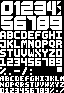
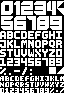
v4.0.0 Support Emery platform

Changed region(s): [[0.75, 0.7097, 1.0, 0.7957], [0.875, 0.0, 1.0, 0.172]]

diff --git a/src/pkjs/index.js b/src/pkjs/index.js
@@ -43,8 +43,14 @@ new Clay([
         "defaultValue": "Bottom text"
       },
       {
+	"capabilities": ["NOT_PLATFORM_EMERY"],
         "type": "text",
         "defaultValue": "Fits up to 17 characters."
+      },
+      {
+	"capabilities": ["PLATFORM_EMERY"],
+        "type": "text",
+        "defaultValue": "Fits up to 24 characters."
       },
       {
         "id": "bottom-select",
@@ -83,8 +89,14 @@ new Clay([
         "defaultValue": "Side text"
       },
       {
+	"capabilities": ["NOT_PLATFORM_EMERY"],
         "type": "text",
         "defaultValue": "Fits up to 20 characters."
+      },
+      {
+	"capabilities": ["PLATFORM_EMERY"],
+        "type": "text",
+        "defaultValue": "Fits up to 29 characters."
       },
       {
         "id": "side-select",

diff --git a/src/c/brutal.c b/src/c/brutal.c
@@ -1,12 +1,37 @@
-/* TODO(irek): Support Emery platform display dimensions. */
-
 #include <pebble.h>
 
-#define CONFKEY 1
-#define BMPW (64/8)	// Bitmaps width in bytes
+#ifdef PBL_PLATFORM_EMERY
+	#define PBL_IF_EMERY_ELSE(if_true, if_false) (if_true)
+#else
+	#define PBL_IF_EMERY_ELSE(if_true, if_false) (if_false)
+#endif
 
-#define GET_BIT(buf, x, y) (((buf)[BMPW*(y) + (x)/8]) &  (0x80 >> (x)%8))
-#define SET_BIT(buf, x, y) (((buf)[BMPW*(y) + (x)/8]) |= (0x80 >> (x)%8))
+#define CONFKEY 1
+#define WIDTH PBL_DISPLAY_WIDTH
+#define HEIGHT PBL_DISPLAY_HEIGHT
+#define PADDING 5	// Distance from screen edges
+#define MARGIN PBL_IF_EMERY_ELSE(7, 5)	// Distance between big numbers
+
+// SCALE tells how many times big font should be scalled up.  This number
+// not only influence BIGH and BIGW, the max width and height of big font
+// numbers, but also the BUFW but more indirectly.
+#define SCALE PBL_IF_EMERY_ELSE(7, 5)
+#define BIGH (14*SCALE)
+#define BIGW (12*SCALE)
+
+// Width in pixels of resource bitmap image with fonts glyphs and buffer
+// used for resizing big font.  The latter has to be wide enought to fit
+// in width the biggest big font number after it is scalled up.  It's
+// important that those widths can be divided by 8.
+#define BMPW 64
+#define BUFW PBL_IF_EMERY_ELSE(88, 64)
+
+// GET_BIT returns non 0 value for bit set to 1 at X,Y position in BUF,
+// being a 1bit image of W width.  Similarly SET_BIT set that bit to 1.
+// Those macros are used many many times when rendering fonts, so >>3
+// (shift right 3 times) is used to simulate divide by 8 in optimal way.
+#define GET_BIT(buf,w,x,y) (((buf)[((w)>>3)*(y)+((x)>>3)]) &  (0x80 >> (x)%8))
+#define SET_BIT(buf,w,x,y) (((buf)[((w)>>3)*(y)+((x)>>3)]) |= (0x80 >> (x)%8))
 
 enum font { BIG, SMALL, TINY };
 enum tile { EMPTY, FULL, CORNER0, CORNER1, CORNER2 };
@@ -17,7 +42,7 @@ enum fmt { BATTERY, STEPS, COPY };
 
 static struct {
 	GColor bg, fg;
-	char side[32], bottom[32];
+	char side[64], bottom[64];
 	enum vibe bt_on, bt_off, each_hour;
 	bool pad_h;
 	uint8_t shadow;
@@ -31,17 +56,17 @@ static HealthValue steps = 0;
 
 static GRect bounds[] = {
 #ifdef PBL_RECT
-	[BODY] = {{0, 0}, {PBL_DISPLAY_WIDTH, PBL_DISPLAY_HEIGHT}},
-	[HOURS] = {{5*2+4, 5}, {PBL_DISPLAY_WIDTH-5*3-4, 70}},
-	[MINUTES] = {{5*2+4, 5*2+70}, {PBL_DISPLAY_WIDTH-5*3-4, 70}},
-	[SIDE] = {{5, 5}, {4, 70*2+5}},
-	[BOTTOM] = {{5, 5*3+70*2}, {PBL_DISPLAY_WIDTH-5*2, 8}}
+	[BODY] = {{0, 0}, {WIDTH, HEIGHT}},
+	[HOURS] = {{WIDTH-(BIGW*2+MARGIN+PADDING), PADDING}, {BIGW*2+MARGIN, BIGH}},
+	[MINUTES] = {{WIDTH-(BIGW*2+MARGIN+PADDING), PADDING+BIGH+MARGIN}, {BIGW*2+MARGIN, BIGH}},
+	[SIDE] = {{PADDING, PADDING}, {4, BIGH*2+MARGIN}},
+	[BOTTOM] = {{PADDING, PADDING+BIGH*2+MARGIN*2}, {WIDTH-PADDING*2, 8}}
 #else
-	[BODY] = {{0, 0}, {PBL_DISPLAY_WIDTH, PBL_DISPLAY_HEIGHT}},
-	[HOURS] = {{(PBL_DISPLAY_WIDTH-60*2-5)/2, 15}, {60*2+5, 70}},
-	[MINUTES] = {{(PBL_DISPLAY_WIDTH-60*2-5)/2, 60}, {60*2+5, 70}},
-	[SIDE] = {{(PBL_DISPLAY_WIDTH-45*2-5)/2, 60+70+5*3+8}, {45*2+5, 5}},
-	[BOTTOM] = {{(PBL_DISPLAY_WIDTH-60*2-5)/2, 60+70+5}, {60*2+5, 8}}
+	[BODY] = {{0, 0}, {WIDTH, HEIGHT}},
+	[HOURS] = {{(WIDTH-60*2-5)/2, 15}, {60*2+5, BIGH}},
+	[MINUTES] = {{(WIDTH-60*2-5)/2, 60}, {60*2+5, BIGH}},
+	[SIDE] = {{(WIDTH-45*2-5)/2, 60+BIGH+5*3+8}, {45*2+5, 5}},
+	[BOTTOM] = {{(WIDTH-60*2-5)/2, 60+BIGH+5}, {60*2+5, 8}}
 #endif
 };
 
@@ -54,10 +79,10 @@ static const GRect fonts[3][128] = {
 		['6'] = {{14,16},{12,14}}, ['7'] = {{27,16},{ 9,14}},
 		['8'] = {{37,16},{12,14}}, ['9'] = {{50,16},{12,14}},
 		// Tiles used to scalue up BIG font
-		[FULL]    = {{ 57,67},{5,5}},
-		[CORNER0] = {{ 57, 1},{5,5}},
-		[CORNER1] = {{ 56, 6},{5,5}},
-		[CORNER2] = {{ 56,10},{5,5}}
+		[FULL]    = {{49,67},{7,7}},
+		[CORNER0] = {{PBL_IF_EMERY_ELSE(57, 59),1},{7,7}},
+		[CORNER1] = {{57, 8},{7,7}},
+		[CORNER2] = {{PBL_IF_EMERY_ELSE(57, 59),67},{7,7}}
 	},
 	[SMALL] = {
 		['A'] = {{ 0,31},{6,8}}, ['a'] = {{ 0,31},{6,8}},
@@ -210,20 +235,19 @@ draw_pixel(GBitmapDataRowInfo info, int16_t x, GColor color)
 static GRect
 scale_glyph(GRect glyph, uint8_t **pixels)
 {
-	static uint8_t RES = 5;
-	// Enough to fit scalled up (5 times) glyph of BIG font encoded in 1bit way
-	static uint8_t buf[BMPW*70] = {};
+	// Enough to fit scalled up (SCALE times) glyph of BIG font encoded in 1bit way
+	static uint8_t buf[BUFW * BIGH] = {};
 	GRect scaled;
-	uint8_t x, y, maxx, maxy;
-	uint8_t bx, by, maxbx, maxby;
+	uint16_t x, y, maxx, maxy;
+	uint16_t bx, by, maxbx, maxby;
 	uint8_t pixel;
 	uint8_t neighbors;
 	enum tile tile;
 
 	scaled.origin.x = 0;
 	scaled.origin.y = 0;
-	scaled.size.w = glyph.size.w * RES;
-	scaled.size.h = glyph.size.h * RES;
+	scaled.size.w = glyph.size.w * SCALE;
+	scaled.size.h = glyph.size.h * SCALE;
 
 	maxx = glyph.origin.x + glyph.size.w;
 	maxy = glyph.origin.y + glyph.size.h;
@@ -232,7 +256,7 @@ scale_glyph(GRect glyph, uint8_t **pixels)
 
 	for (y=glyph.origin.y; y<maxy; y++)
 	for (x=glyph.origin.x; x<maxx; x++) {
-		pixel = GET_BIT(*pixels, x, y);
+		pixel = GET_BIT(*pixels, BMPW, x, y);
 		tile = EMPTY;
 
 		if (pixel) {
@@ -240,14 +264,14 @@ scale_glyph(GRect glyph, uint8_t **pixels)
 		} else {
 			neighbors = 0;
 
-			if (GET_BIT(*pixels, x-1, y-1)) neighbors |= 0b10000000;
-			if (GET_BIT(*pixels, x  , y-1)) neighbors |= 0b01000000;
-			if (GET_BIT(*pixels, x+1, y-1)) neighbors |= 0b00100000;
-			if (GET_BIT(*pixels, x-1, y  )) neighbors |= 0b00010000;
-			if (GET_BIT(*pixels, x+1, y  )) neighbors |= 0b00001000;
-			if (GET_BIT(*pixels, x-1, y+1)) neighbors |= 0b00000100;
-			if (GET_BIT(*pixels, x  , y+1)) neighbors |= 0b00000010;
-			if (GET_BIT(*pixels, x+1, y+1)) neighbors |= 0b00000001;
+			if (GET_BIT(*pixels, BMPW, x-1, y-1)) neighbors |= 0b10000000;
+			if (GET_BIT(*pixels, BMPW, x  , y-1)) neighbors |= 0b01000000;
+			if (GET_BIT(*pixels, BMPW, x+1, y-1)) neighbors |= 0b00100000;
+			if (GET_BIT(*pixels, BMPW, x-1, y  )) neighbors |= 0b00010000;
+			if (GET_BIT(*pixels, BMPW, x+1, y  )) neighbors |= 0b00001000;
+			if (GET_BIT(*pixels, BMPW, x-1, y+1)) neighbors |= 0b00000100;
+			if (GET_BIT(*pixels, BMPW, x  , y+1)) neighbors |= 0b00000010;
+			if (GET_BIT(*pixels, BMPW, x+1, y+1)) neighbors |= 0b00000001;
 
 			switch (neighbors) {
 			case 0b11010000: tile = CORNER0; break;
@@ -259,20 +283,21 @@ scale_glyph(GRect glyph, uint8_t **pixels)
 		if (tile == EMPTY)
 			continue;
 
-		by = (y - glyph.origin.y) * RES;
-		maxby = by + RES;
+		by = (y - glyph.origin.y) * SCALE;
+		maxby = by + SCALE;
 
 		for (; by<maxby; by++) {
-			bx = (x - glyph.origin.x) * RES;
-			maxbx = bx + RES;
+			bx = (x - glyph.origin.x) * SCALE;
+			maxbx = bx + SCALE;
 
 			for (; bx<maxbx; bx++) {
 				if (!GET_BIT(*pixels,
-					     fonts[BIG][tile].origin.x + (bx%RES),
-					     fonts[BIG][tile].origin.y + (by%RES)))
+				             BMPW,
+					     fonts[BIG][tile].origin.x + (bx%SCALE),
+					     fonts[BIG][tile].origin.y + (by%SCALE)))
 					continue;
 
-				SET_BIT(buf, bx, by);
+				SET_BIT(buf, BUFW, bx, by);
 			}
 		}
 	}
@@ -327,7 +352,7 @@ print_font(GContext *ctx, GRect rect,
 	GBitmapDataRowInfo info;
 	int16_t x, y, maxx, maxy;
 	int16_t px, py, maxpx, maxpy;
-	uint8_t *pixels;
+	uint8_t *pixels, w;
 
 	len = strlen(str);
 
@@ -387,7 +412,8 @@ print_font(GContext *ctx, GRect rect,
 				maxx = info.max_x;
 
 			for (x=rect.origin.x; x < maxx && px < maxpx; x++, px++) {
-				if (!GET_BIT(pixels, px, py))
+				w = font == BIG ? BUFW : BMPW;
+				if (!GET_BIT(pixels, w, px, py))
 					continue;
 
 				if (dither > map[y%8][x%8])
@@ -448,10 +474,10 @@ Hours(Layer *_layer, GContext *ctx)
 
 
 #ifdef PBL_RECT
-	print_font(ctx, bounds[HOURS], BIG, LEFT, buf, 5, opacity);
+	print_font(ctx, bounds[HOURS], BIG, LEFT, buf, MARGIN, opacity);
 
 	if (opacity == 255) {
-		print_font(ctx, bounds[HOURS], BIG, RIGHT, buf, 5, config.shadow);
+		print_font(ctx, bounds[HOURS], BIG, RIGHT, buf, MARGIN, config.shadow);
 		return;
 	}
 
@@ -486,37 +512,37 @@ Minutes(Layer *_layer, GContext *ctx)
 	tm = now();
 	strftime(buf, sizeof buf, "%M", tm);
 
-	print_font(ctx, bounds[MINUTES], BIG, LEFT, buf, 5, 255);
+	print_font(ctx, bounds[MINUTES], BIG, LEFT, buf, MARGIN, 255);
 
 #ifdef PBL_RECT
 	if (opacity == 255)
-		print_font(ctx, bounds[MINUTES], BIG, RIGHT, buf, 5, config.shadow);
+		print_font(ctx, bounds[MINUTES], BIG, RIGHT, buf, MARGIN, config.shadow);
 #endif
 }
 
 static void
 Side(Layer *_layer, GContext *ctx)
 {
-	char fmt[32], buf[32];
+	char fmt[64], buf[64];
 	struct tm *tm;
 
 	tm = now();
 	parsefmt(fmt, sizeof fmt, config.side);
 	strftime(buf, sizeof buf, fmt, tm);
-	buf[20] = 0;
+	buf[PBL_IF_EMERY_ELSE(30, 21)] = 0;
 	print_font(ctx, bounds[SIDE], TINY, DOWN, buf, 2, 255);
 }
 
 static void
 Bottom(Layer *_layer, GContext *ctx)
 {
-	char fmt[32], buf[32];
+	char fmt[64], buf[64];
 	struct tm *tm;
 
 	tm = now();
 	parsefmt(fmt, sizeof fmt, config.bottom);
 	strftime(buf, sizeof buf, fmt, tm);
-	buf[17] = 0;
+	buf[PBL_IF_EMERY_ELSE(25, 18)] = 0;
 	print_font(ctx, bounds[BOTTOM], SMALL, LEFT, buf, 2, 255);
 }
 
@@ -546,7 +572,7 @@ Unobstructed(AnimationProgress _p, void *win)
 	if (offset > 0) {
 		bounds[MINUTES].origin.y -= offset;
 		bounds[BOTTOM].origin.y -= offset;
-		opacity -= normal(offset, 0, 51, 0, 225);
+		opacity -= normal(offset, 0, PBL_IF_EMERY_ELSE(59, 51), 0, 225);
 	}
 }
 
@@ -772,7 +798,7 @@ main()
 	Unobstructed(0, win);
 	// NOTE(irek): Aplite has unobstructed_area_service_subscribe
 	// macro doing nothing.  In result the variable "handlers" is
-	// never used and I'm getting compailer error.
+	// never used and compailer complains.
 	(void)handlers;
 
 	// Tap
